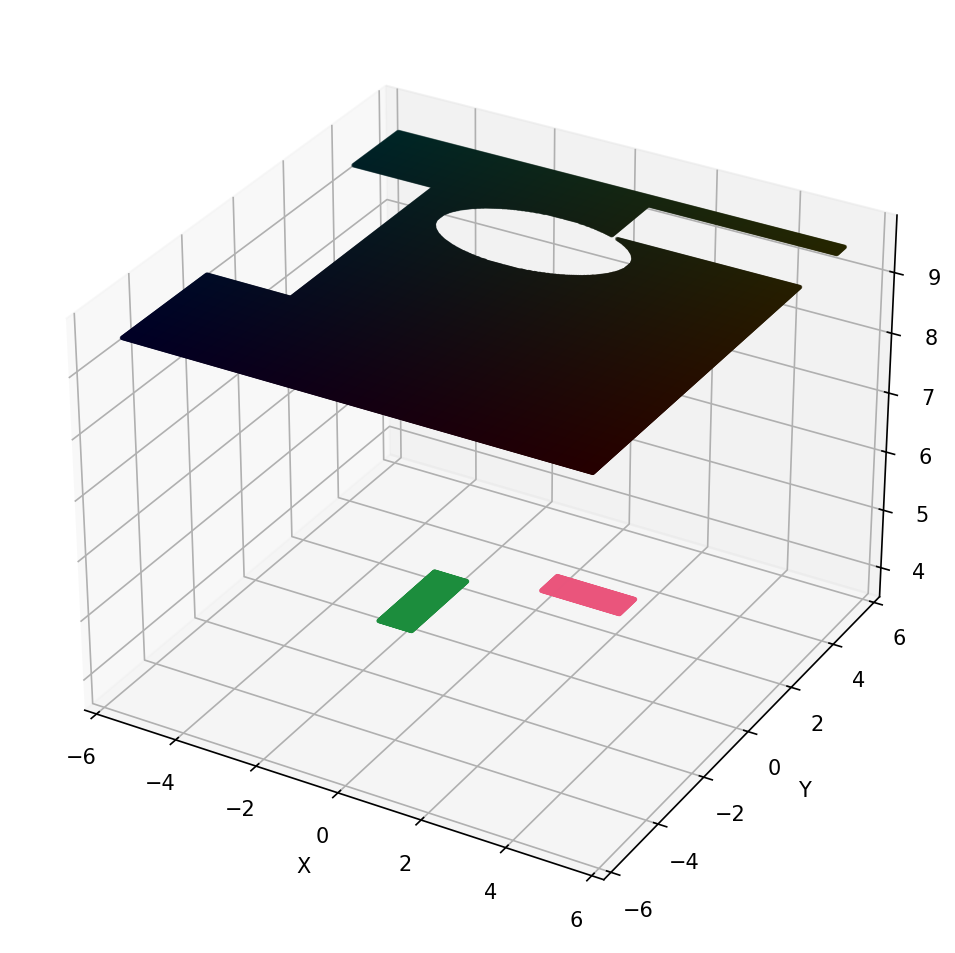
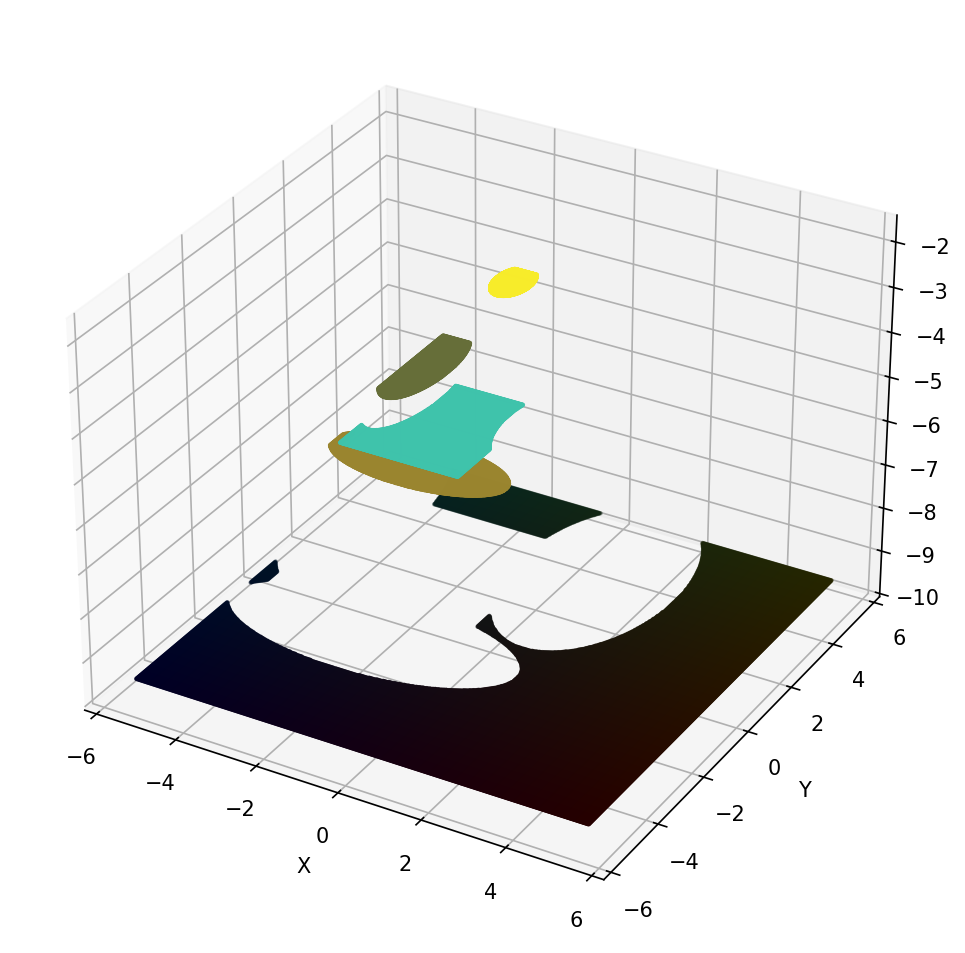
fine tuning

diff --git a/mini-project/train.py b/mini-project/train.py
@@ -166,7 +166,7 @@ class Block(nn.Module):
 
     def forward(self, x):
         x = x + self.attention(self.ln1(x))     # residual + attention
-        x = x + self.encoder(self.ln2(x))   # residual + MLP
+        x = x + self.encoder(self.ln2(x))       # residual + MLP
         return x
 
 